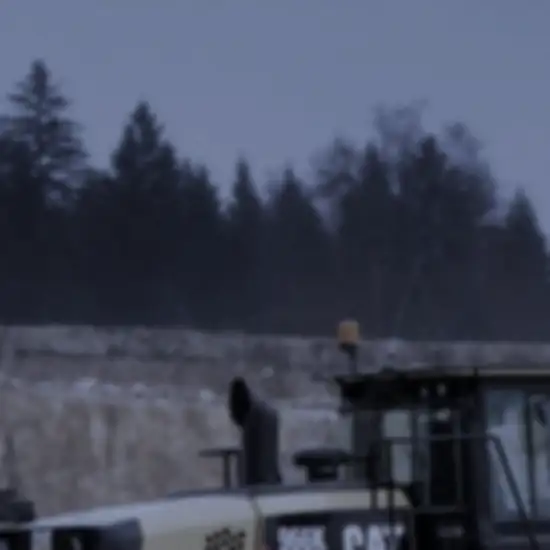
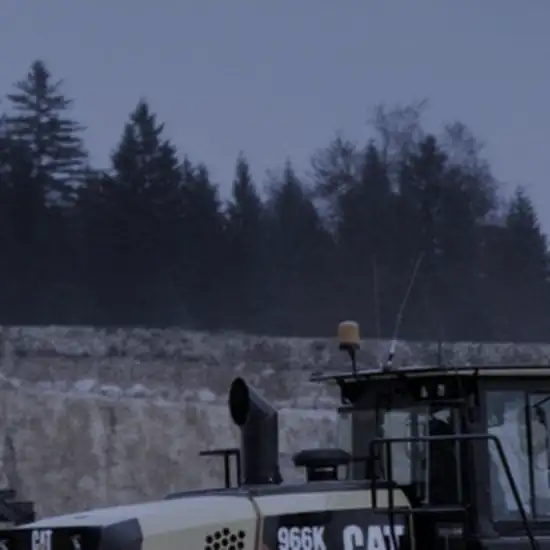
fix(hero): reduire flou 2.5px a 0.8px + augmenter resolution pelle 650px

diff --git a/scripts/process_hero_images.py b/scripts/process_hero_images.py
@@ -30,7 +30,7 @@ CONFIGS = [
         'dst': 'pelle.webp',
         # Show arm/bucket of the excavator (bottom-left area)
         'crop': (30, 60, 360, 420),
-        'width': 500,
+        'width': 650,
     },
 ]
 
@@ -70,8 +70,8 @@ for cfg in CONFIGS:
     enhancer = ImageEnhance.Color(img)
     img = enhancer.enhance(0.30)  # 30% of original saturation
 
-    # Soft blur for atmospheric depth
-    img = img.filter(ImageFilter.GaussianBlur(radius=2.5))
+    # Very subtle blur for atmospheric depth
+    img = img.filter(ImageFilter.GaussianBlur(radius=0.8))
 
     # Slight brightness reduction
     enhancer_b = ImageEnhance.Brightness(img)
